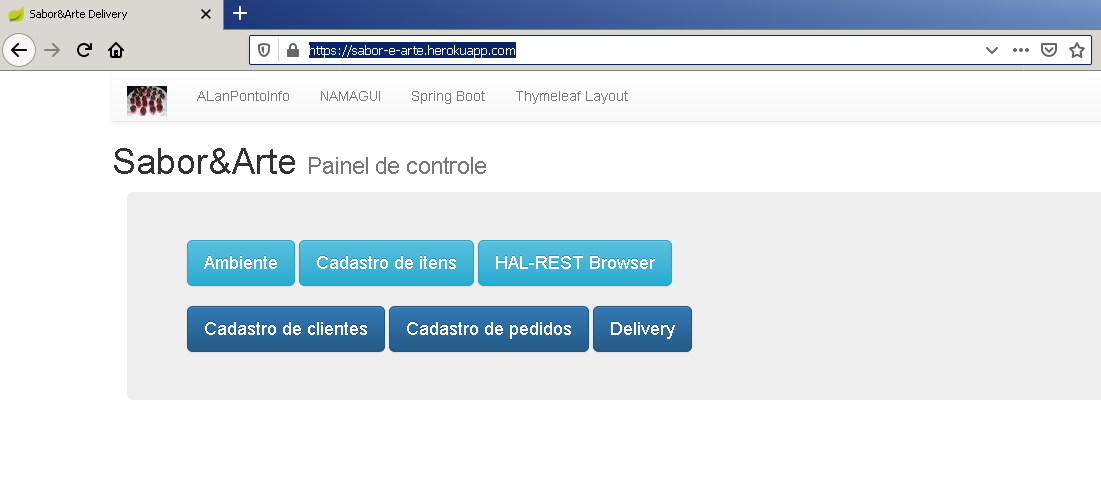
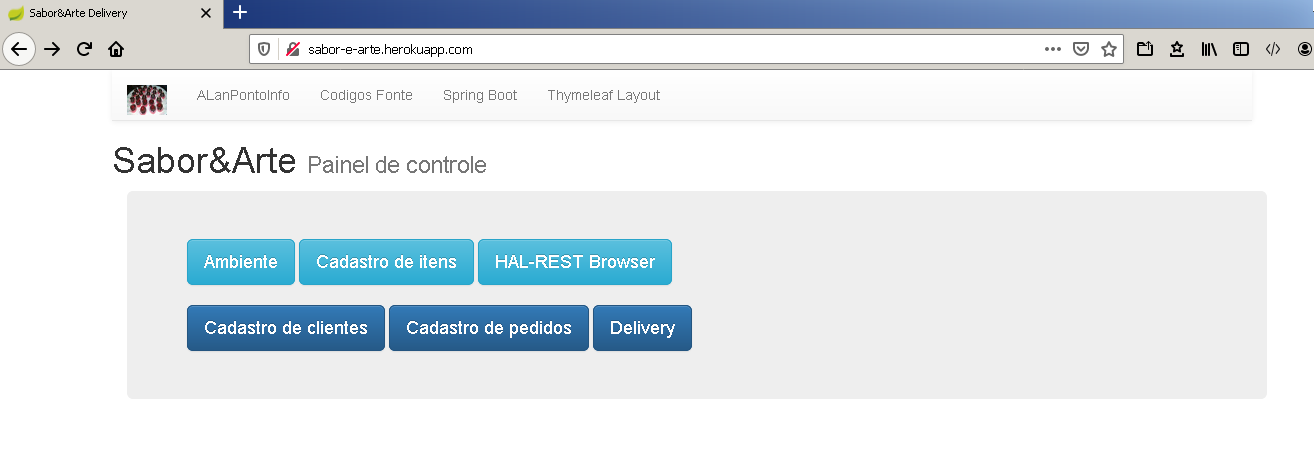
modificar imagem do app sabor e arte

Changed region(s): [[0.1235, 0.4891, 0.6485, 0.7642], [0.0, 0.0, 1.0, 0.2445], [0.0926, 0.3057, 0.4632, 0.3974]]

diff --git a/javacodigos/springboot/spring-boot-sabor-e-arte-delivery/src/main/resources/templates/layout.html b/javacodigos/springboot/spring-boot-sabor-e-arte-delivery/src/main/resources/templates/layout.html
@@ -28,7 +28,7 @@
     </div>
 	<ul class="nav navbar-nav">
 	  <li><a class="brand" href="http://www.alanpontoinfo.com.br"target="_blank">ALanPontoInfo</a></li>
-<li><a class="brand" href="https://github.com/alanpontoinfo/javalearn/tree/master/javacodigos/springboot/spring-boot-sabor-e-arte-delivery">Codigos Fonte</a></li>
+<li><a class="brand" href="https://github.com/alanpontoinfo/javalearn/tree/master/javacodigos/springboot/spring-boot-sabor-e-arte-delivery" target="_blank">Codigos Fonte</a></li>
 	  <li><a class="brand" href="https://projects.spring.io/spring-boot/"target="_blank">Spring Boot</a></li>
 	  <li><a class="brand" href="https://github.com/ultraq/thymeleaf-layout-dialect"target="_blank">Thymeleaf Layout</a></li>
 	</ul>
